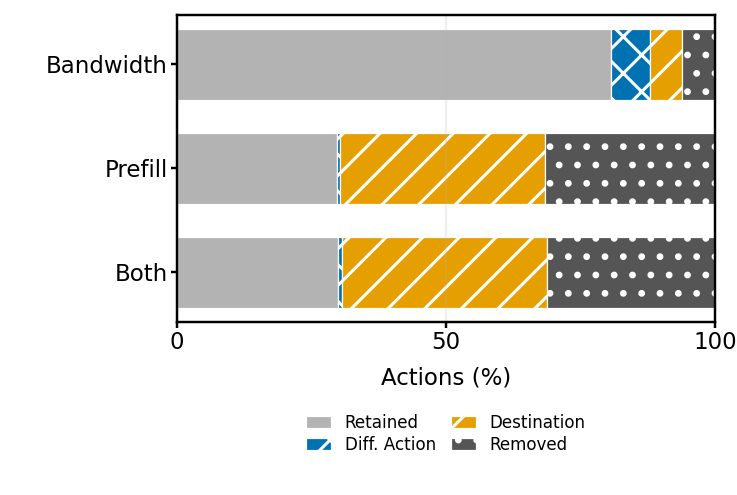
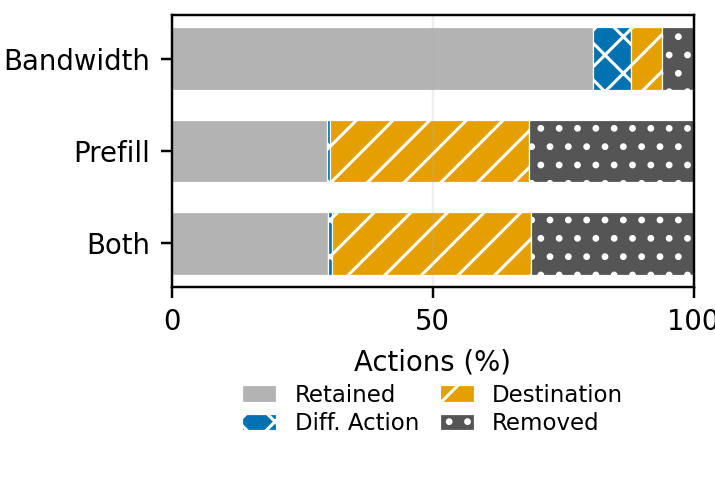
Tune repair panels for NSDI two-column layout

Changed region(s): [[0.0923, 0.2424, 1.0, 0.9091], [0.2154, 0.0303, 0.9846, 0.2121], [0.0, 0.0909, 0.2462, 0.1515]]

diff --git a/agent-migrate/queue-haul/plot_repair_attainment.py b/agent-migrate/queue-haul/plot_repair_attainment.py
@@ -23,6 +23,9 @@ SOURCE_SCHEMA = "queue-haul-repair-stress-multiaxis-preflight-v3"
 POPULATION_SCHEMA = "queue-haul-repair-attainment-population-v1"
 COMMON_PHASE = "common_workload_multiaxis"
 POLICIES = ("replan", "no_replan")
+PANEL_FIGSIZE = (3.25, 2.25)
+PANEL_FONT_SIZE = 9
+PANEL_LEGEND_FONT_SIZE = 7.5
 DEFAULT_SOURCE = Path(
     "outputs/repair-stress-multiaxis-hardware-20260814/preflight.json")
 DEFAULT_OUT = Path("outputs/repair-attainment-simulation-20260817")
@@ -230,7 +233,7 @@ def transition_summary(bundle: dict, target_fraction: float) -> list[dict]:
 def plot_response(curve: list[dict], transitions: list[dict], cutoff_s: float,
                   horizon_s: float, output: Path) -> None:
     actions = tuple(plot_style.REPAIR_ACTION_NAMES)
-    fig, cdf_axis = plt.subplots(figsize=(3.35, 2.25))
+    fig, cdf_axis = plt.subplots(figsize=PANEL_FIGSIZE)
     for policy in POLICIES:
         cdf_axis.step(
             [row["time_s"] for row in curve],
@@ -247,15 +250,18 @@ def plot_response(curve: list[dict], transitions: list[dict], cutoff_s: float,
                  xticks=(0, 25, 60, 120), yticks=(0, 50, 100),
                  xlabel="Time (s)", ylabel="Target attainment (%)")
     cdf_axis.grid(axis="y", alpha=.2)
-    plot_style.half_column(cdf_axis)
-    cdf_axis.legend(frameon=False, loc="lower right", fontsize=5.3,
+    cdf_axis.tick_params(labelsize=PANEL_FONT_SIZE)
+    cdf_axis.xaxis.label.set_size(PANEL_FONT_SIZE)
+    cdf_axis.yaxis.label.set_size(PANEL_FONT_SIZE)
+    cdf_axis.legend(frameon=False, loc="lower right",
+                    fontsize=PANEL_LEGEND_FONT_SIZE,
                     handlelength=1.5, borderpad=.1, labelspacing=.25)
     fig.subplots_adjust(left=.2, right=.97, bottom=.22, top=.97)
     for suffix in ("png", "pdf"):
         fig.savefig(output.with_suffix(f".{suffix}"), dpi=plot_style.SAVE_DPI)
     plt.close(fig)
 
-    fig, mix_axis = plt.subplots(figsize=(3.35, 2.25))
+    fig, mix_axis = plt.subplots(figsize=PANEL_FIGSIZE)
     ordered = [next(row for row in transitions
                     if row["fault_axis"] == axis)
                for axis in ("bandwidth", "prefill", "joint")]
@@ -275,12 +281,15 @@ def plot_response(curve: list[dict], transitions: list[dict], cutoff_s: float,
                      row["fault_axis"]] for row in ordered])
     mix_axis.invert_yaxis()
     mix_axis.grid(axis="x", alpha=.2)
-    plot_style.half_column(mix_axis)
+    mix_axis.tick_params(labelsize=PANEL_FONT_SIZE)
+    mix_axis.xaxis.label.set_size(PANEL_FONT_SIZE)
+    mix_axis.yaxis.label.set_size(PANEL_FONT_SIZE)
     mix_axis.legend(frameon=False, ncol=2, loc="lower center",
-               bbox_to_anchor=(.5, -.48),
-               fontsize=5.5, handlelength=1.5, columnspacing=.9,
+               bbox_to_anchor=(.5, -.62),
+               fontsize=PANEL_LEGEND_FONT_SIZE, handlelength=1.5,
+               columnspacing=.9,
                labelspacing=.25)
-    fig.subplots_adjust(left=.24, right=.97, bottom=.35, top=.97)
+    fig.subplots_adjust(left=.24, right=.97, bottom=.42, top=.97)
     for suffix in ("png", "pdf"):
         fig.savefig(output.with_name("repair_actions").with_suffix(f".{suffix}"),
                     dpi=plot_style.SAVE_DPI)

diff --git a/agent-migrate/queue-haul/tests/test_plot_repair_attainment.py b/agent-migrate/queue-haul/tests/test_plot_repair_attainment.py
@@ -8,6 +8,7 @@ Plausible wrong implementations:
 - Select applied interventions based on their attainment time.
 - Aggregate action transitions without conserving pending actions.
 - Keep abbreviated resources or stale action-axis and legend labels.
+- Emit panels too wide or with typography too small for side-by-side use.
 """
 
 from pathlib import Path
@@ -109,6 +110,8 @@ def test_response_plots_are_separate_and_use_requested_labels(monkeypatch):
                           25, 120, Path("repair_response"))
 
     figures = [plt.figure(number) for number in plt.get_fignums()[-2:]]
+    assert all(tuple(figure.get_size_inches()) == plotter.PANEL_FIGSIZE
+               for figure in figures)
     assert saved == [Path("repair_response.png"), Path("repair_response.pdf"),
                      Path("repair_actions.png"), Path("repair_actions.pdf")]
     assert [tick.get_text() for tick in figures[1].axes[0].get_yticklabels()] == [
@@ -116,4 +119,7 @@ def test_response_plots_are_separate_and_use_requested_labels(monkeypatch):
     assert figures[1].axes[0].get_xlabel() == "Actions (%)"
     assert "Diff. Action" in [text.get_text() for text in
                               figures[1].axes[0].get_legend().get_texts()]
+    assert all(text.get_fontsize() >= plotter.PANEL_LEGEND_FONT_SIZE
+               for figure in figures for text in
+               figure.axes[0].get_legend().get_texts())
     plt.close("all")
